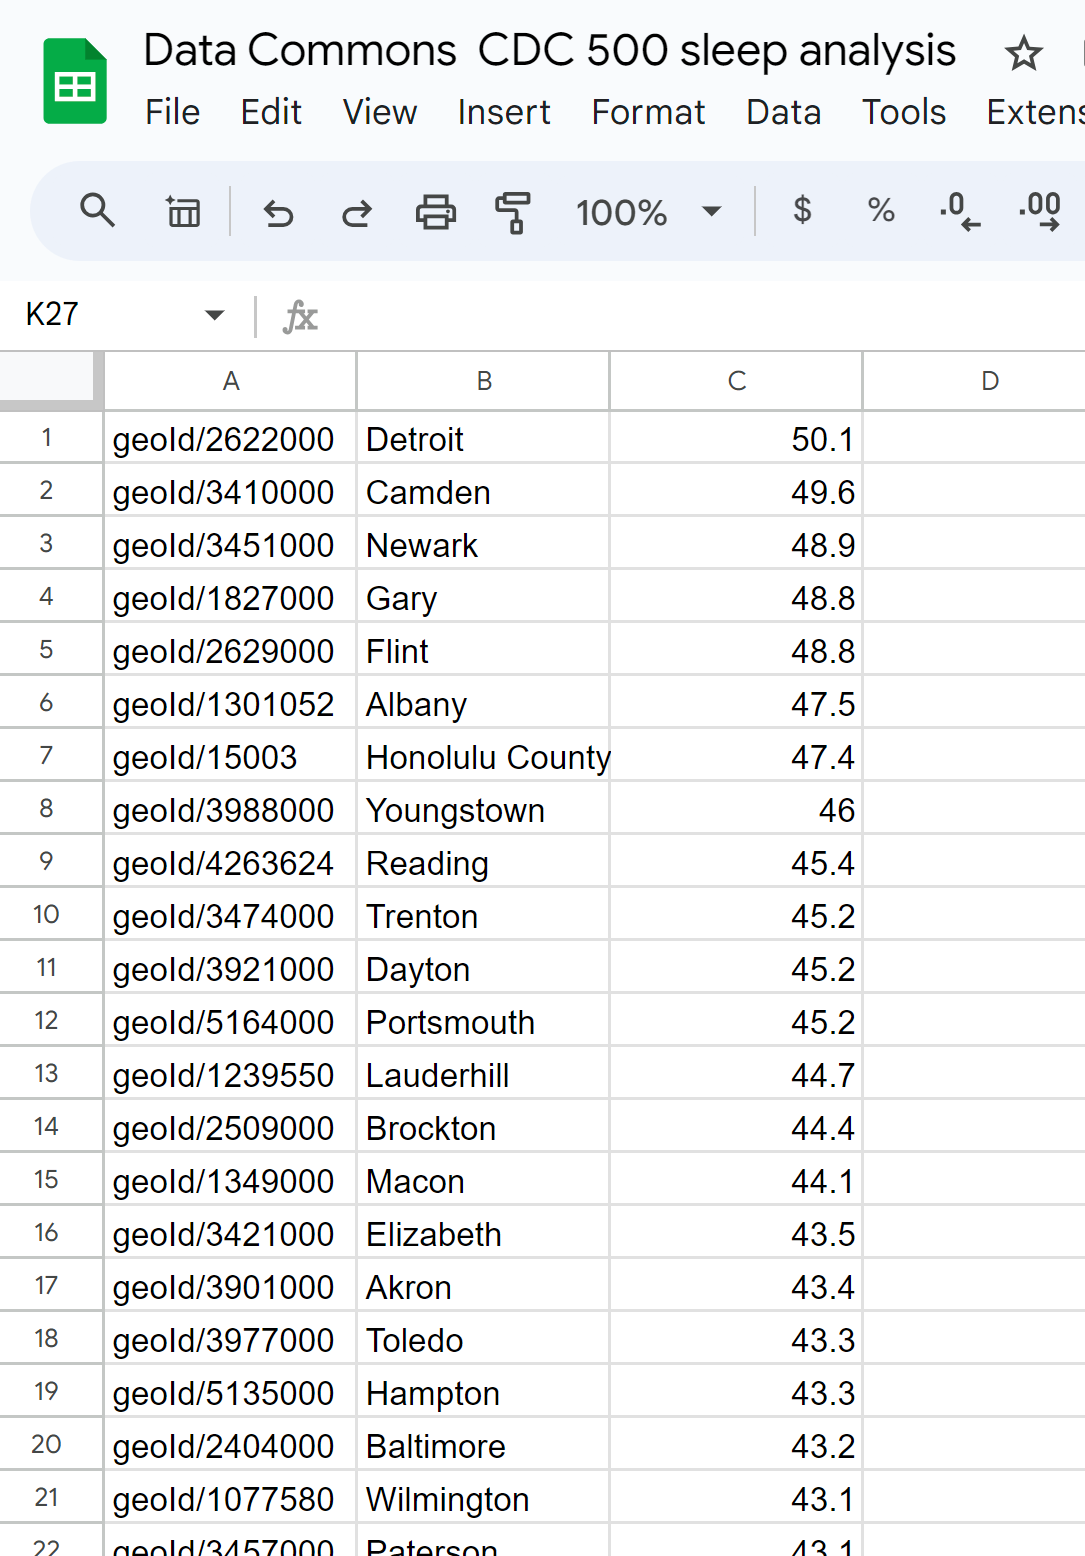
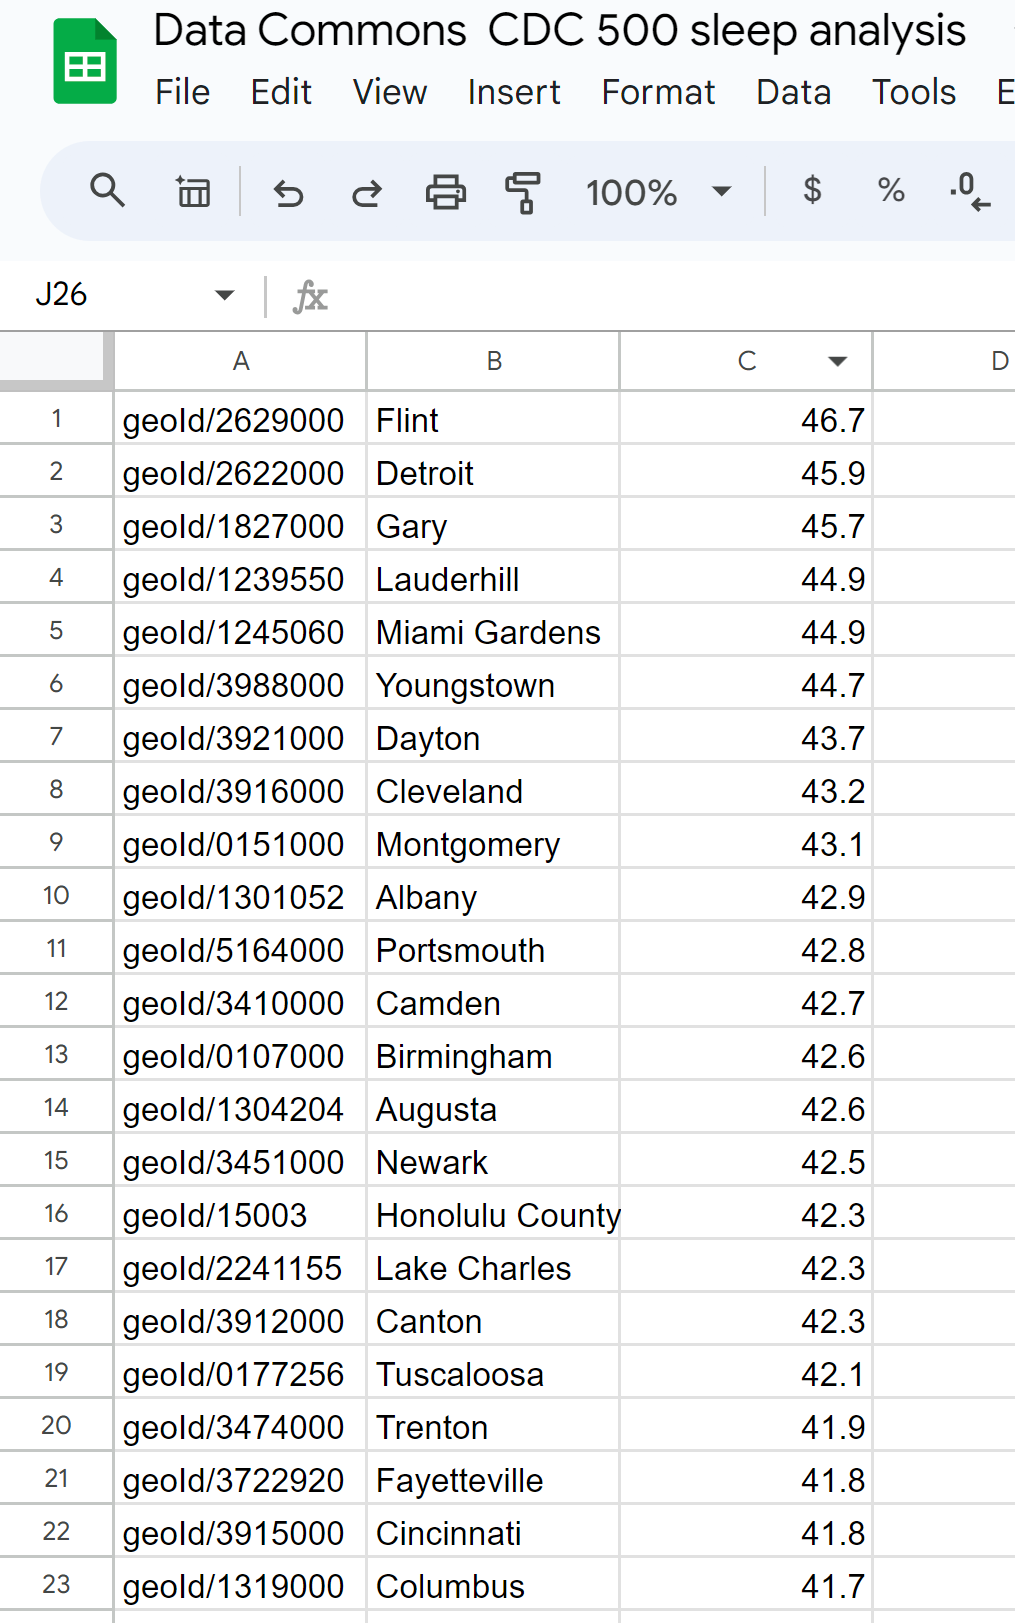
updated data to 2020

diff --git a/api/sheets/tutorials/sheets_sleep.md b/api/sheets/tutorials/sheets_sleep.md
@@ -12,7 +12,7 @@ grand_parent_url: /api/sheets
 
 ## Introduction
 
-The Data Commons API enables easy access to health data for the 500 cities the U.S. Centers for Disease Control and Prevention (CDC)has prioritized for public health information tracking. This tutorial will walk you through accessing and analyzing that information and scoring each of the cities according to adults residents’ excellence in sleep habits.
+The Data Commons API enables easy access to health data for the 500 cities the U.S. Centers for Disease Control and Prevention (CDC)has prioritized for public health information tracking. This tutorial will walk you through accessing and analyzing that information and scoring each of the cities according to adults residents’ excellence in sleep habits, for the year 2020.
 
 ## Step 1: Setup
 Pull up Google Sheets and create a new, blank spreadsheet. You can title it `Data Commons CDC 500 sleep analysis` or any other name of your choosing.
